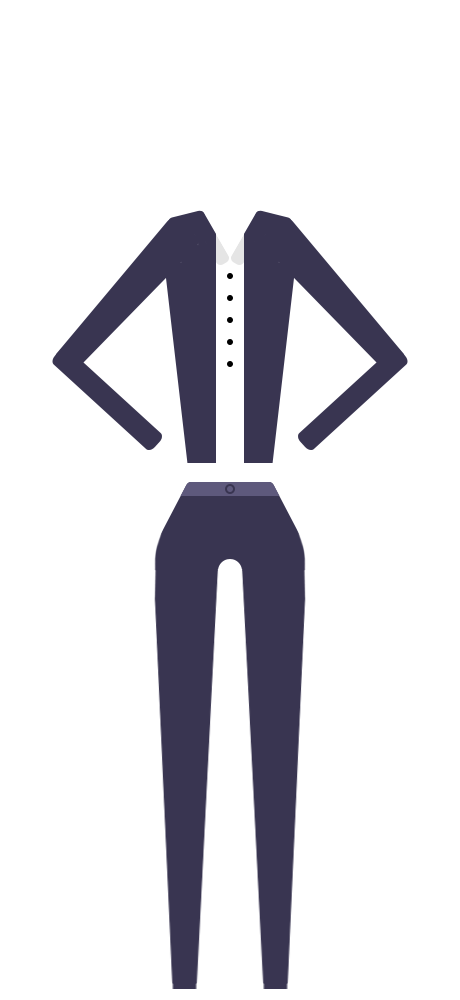
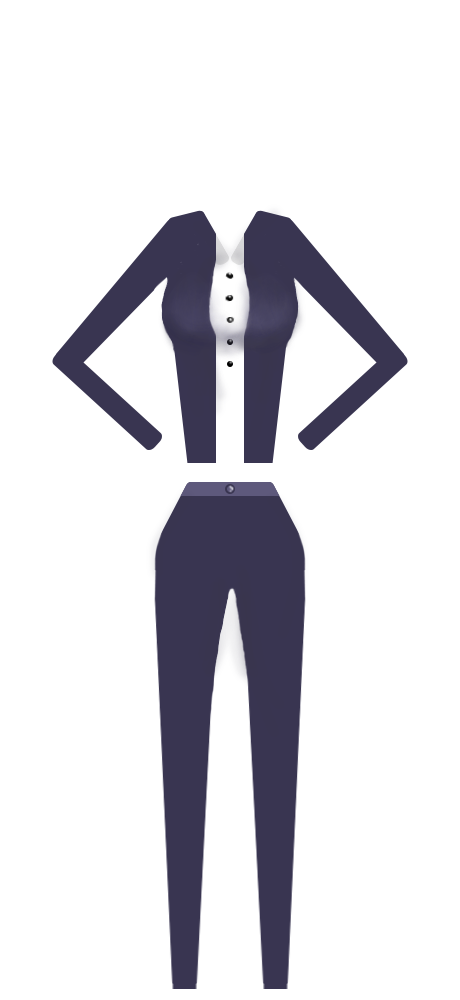
diploma

diff --git a/diploma/src/js/script.js b/diploma/src/js/script.js
@@ -52,9 +52,9 @@
 		let skin, hair, clothes;
 		let maleSkin = ['url(img/skin/skin-1.png)', 'url(img/skin/skin-2.png)', 'url(img/skin/skin-3.png)'];
 		let femaleSkin = ['url(img/skin/skin-4.png)', 'url(img/skin/skin-5.png)', 'url(img/skin/skin-6.png)'];
-		let maleHair = ['url(img/hair/construct/hair-1.png)', 'url(img/hair/construct/hair-2.png)', 'url(img/hair/construct/hair-3.png)'];
+		let maleHair = ['url(img/hair/construct/hair-10.png)', 'url(img/hair/construct/hair-2.png)', 'url(img/hair/construct/hair-3.png)'];
 		let femaleHair = ['url(img/hair/construct/hair-4.png)', 'url(img/hair/construct/hair-5.png)', 'url(img/hair/construct/hair-6.png)'];
-		let maleClothes = ['url(img/clothes/construct/clothes-1.png)', 'url(img/clothes/construct/clothes-2.png)', 'url(img/clothes/construct/clothes-3.png)'];
+		let maleClothes = ['url(img/clothes/construct/clothes-1.png)', 'url(img/clothes/construct/clothes-22.png)', 'url(img/clothes/construct/clothes-3.png)'];
 		let femaleClothes = ['url(img/clothes/construct/clothes-4.png)', 'url(img/clothes/construct/clothes-5.png)', 'url(img/clothes/construct/clothes-6.png)'];
 		
 

diff --git a/diploma/src/sass/style.sass b/diploma/src/sass/style.sass
@@ -579,7 +579,7 @@ $btn-light: #c8cba5
             &-1
                 width: 160px
                 height: 80px
-                background: $light-text-color url(../img/hair/slide/hair-1.png) center no-repeat
+                background: $light-text-color url(../img/hair/slide/hair-10.png) center no-repeat
                 background-size: 40%
                 border-radius: 10px
             &-2
@@ -629,7 +629,7 @@ $btn-light: #c8cba5
                 display: none
                 width: 160px
                 height: 80px
-                background: $btn-pink url(../img/clothes/slide/clothes-2.png) center no-repeat
+                background: $btn-pink url(../img/clothes/slide/clothes-22.png) center no-repeat
                 background-size: 20%
                 border-radius: 10px
             &-3

diff --git a/diploma/src/css/style.css b/diploma/src/css/style.css
@@ -768,7 +768,7 @@
 .custom-style .hair-style-1 {
   width: 160px;
   height: 80px;
-  background: #f9fbfd url("../img/hair/slide/hair-1.png") center no-repeat;
+  background: #f9fbfd url("../img/hair/slide/hair-10.png") center no-repeat;
   background-size: 40%;
   border-radius: 10px;
 }
@@ -830,7 +830,7 @@
   display: none;
   width: 160px;
   height: 80px;
-  background: #daafc2 url("../img/clothes/slide/clothes-2.png") center no-repeat;
+  background: #daafc2 url("../img/clothes/slide/clothes-22.png") center no-repeat;
   background-size: 20%;
   border-radius: 10px;
 }
